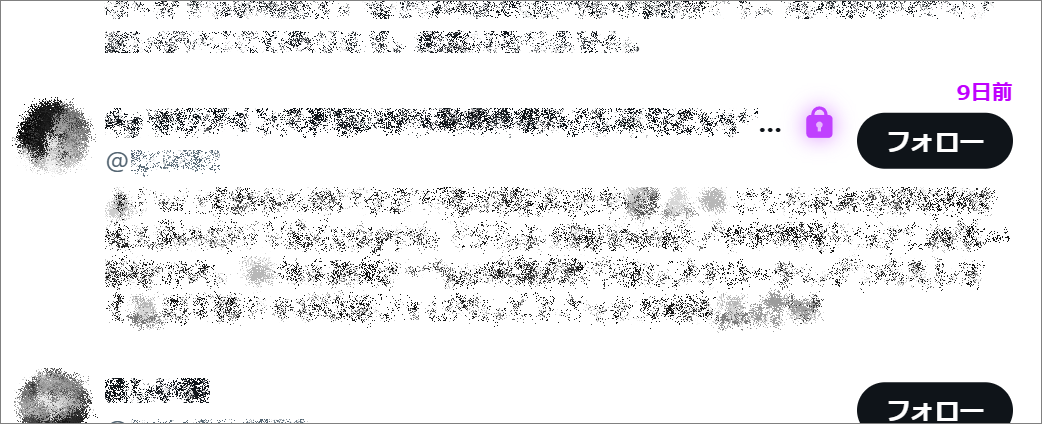
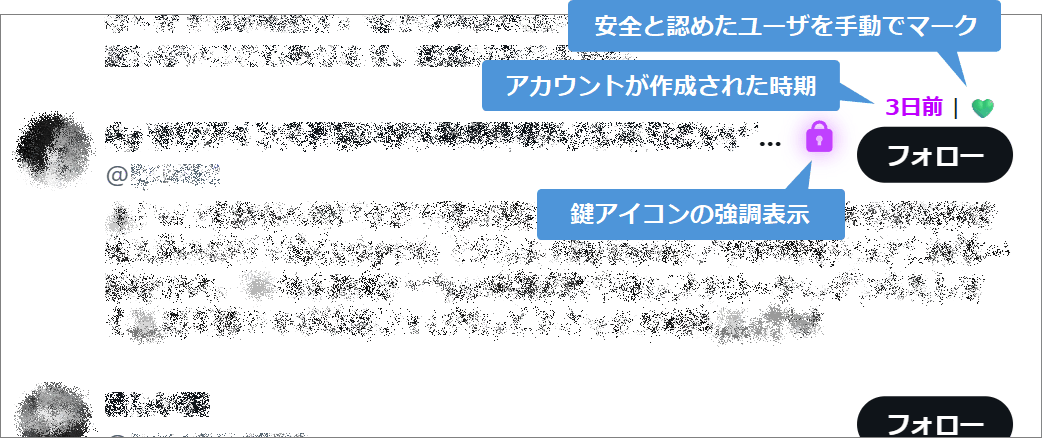
fix README

diff --git a/README.md b/README.md
@@ -33,11 +33,20 @@ NG ワードの追加依頼があれば [X でリプライ](https://twitter.com/
 
 ## おまけ機能
 
-- 非公開アカウントの鍵マークを強調表示します。
-- アカウントの作成日をざっくり推定してフォローボタンの上に表示します。
-
-上記はいずれも「スパムっぽいかどうか」の評価には影響しません。
-
 ![](./images/ss-lock-icon.png)
+
+### 安全なユーザをマーク
+
+フォローボタンの上のハートマークをクリックすると、そのユーザを安全なユーザとしてマークできます。マークされたユーザは次回からスパムっぽさの評価から除外されます。
+
+マークはブラウザに保存されます (外部へは送信されません)。
+
+### アカウントの作成日を表示
+
+アカウントの作成日をざっくり推定してフォローボタンの上に表示します。スパムっぽさの評価には影響しません。
+
+### 非公開アカウントの鍵マークを強調表示
+
+スパムっぽさの評価には影響しません。
 
 ----
